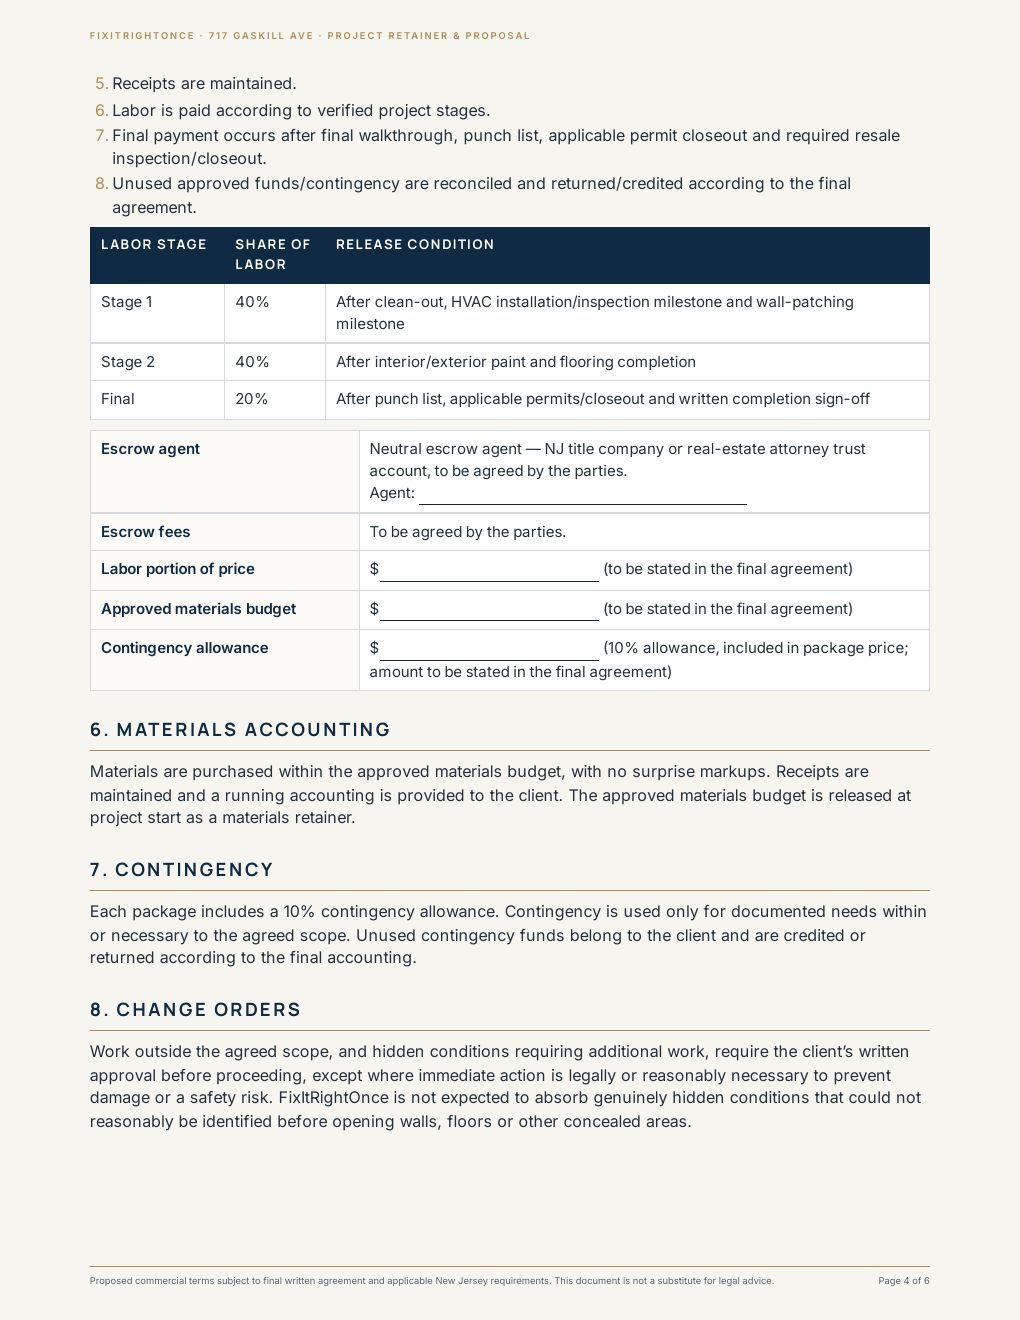
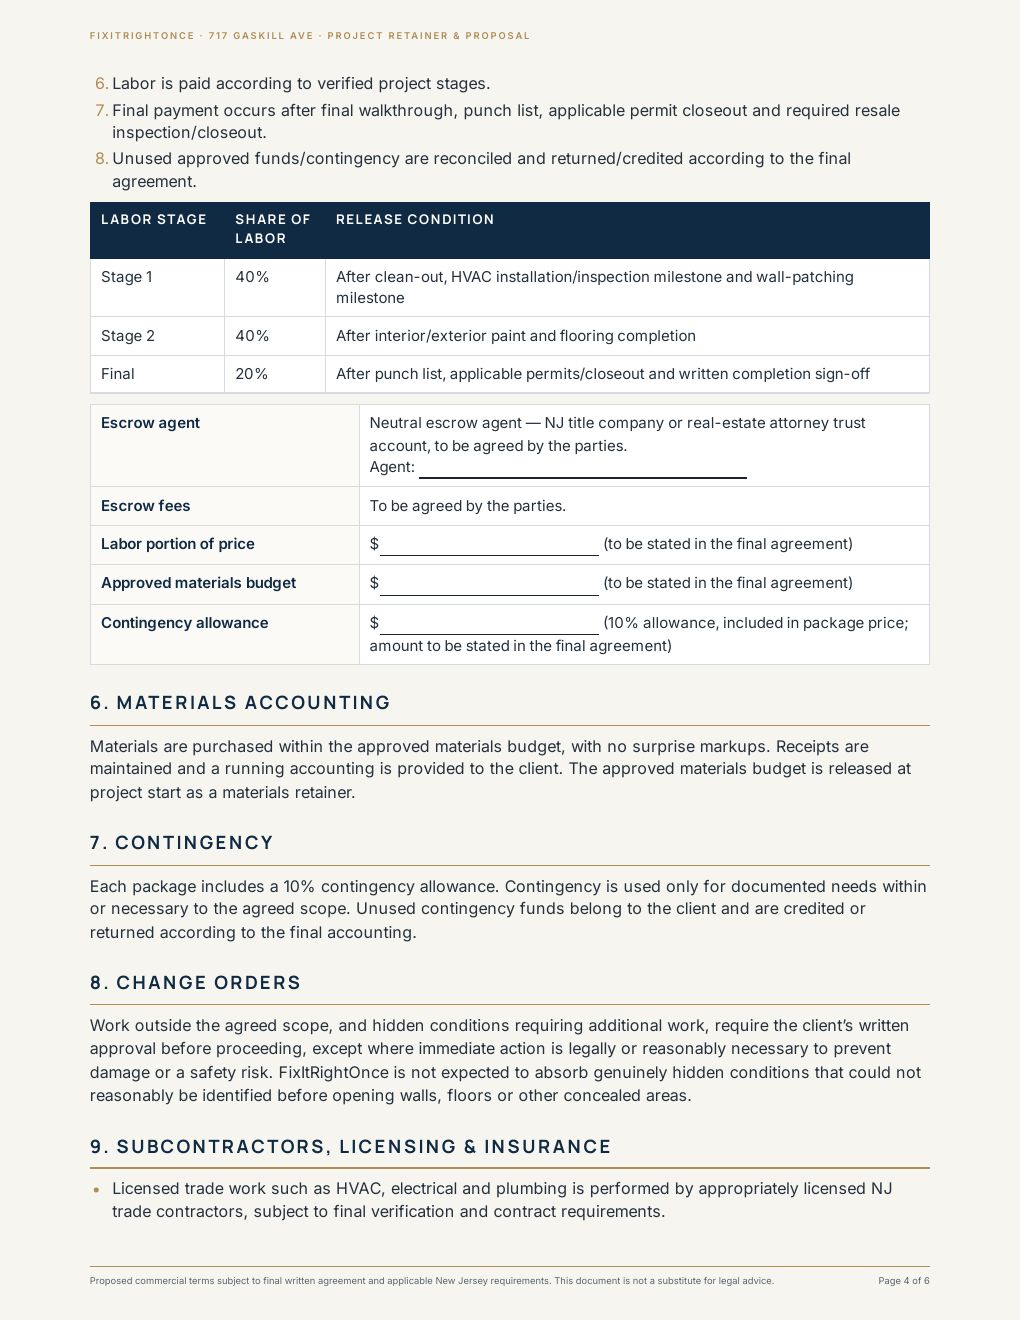
717 Gaskill: project clock starts when escrow is funded
Claude-Session: https://claude.ai/code/session_01NLgoSYizUiw31tD78Qe9eR

Changed region(s): [[0.0912, 0.0621, 0.9118, 0.9318], [0.0912, 0.3727, 0.3039, 0.497], [0.699, 0.8697, 0.851, 0.9008]]

diff --git a/projects/717-gaskill/investor/index.html b/projects/717-gaskill/investor/index.html
@@ -717,11 +717,8 @@
       </div>
       <div class="clock">
         <div class="card">
-          <h3>The project clock starts when both are true</h3>
-          <ul class="steps" style="margin-top:12px">
-            <li>Escrow is funded / project authorization is completed, and</li>
-            <li>The required HVAC/mechanical permit is issued, where applicable.</li>
-          </ul>
+          <h3>When the project clock starts</h3>
+          <p style="margin-top:12px">The project clock starts when escrow is funded.</p>
         </div>
         <div class="card">
           <h3>What can move the schedule</h3>
